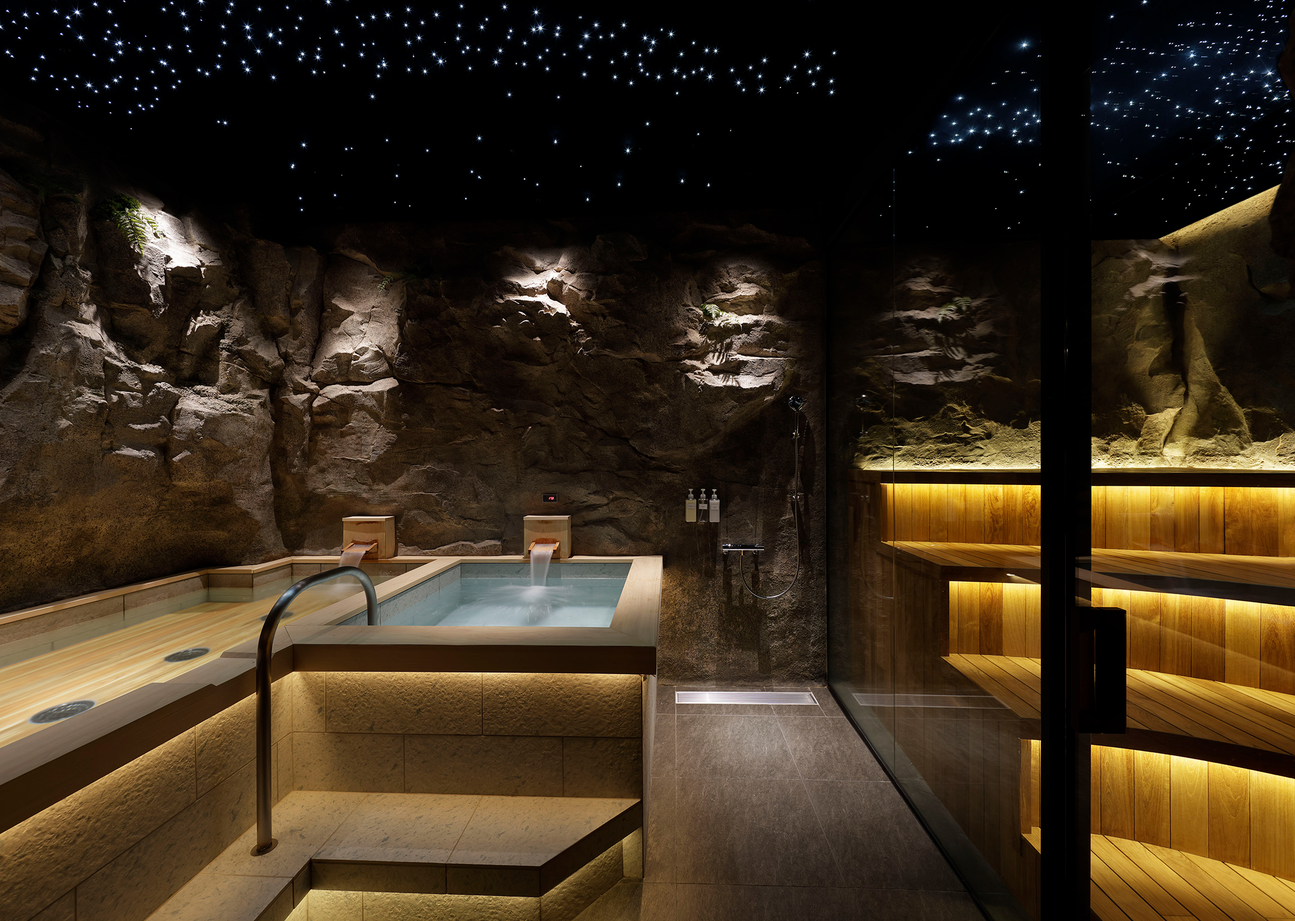
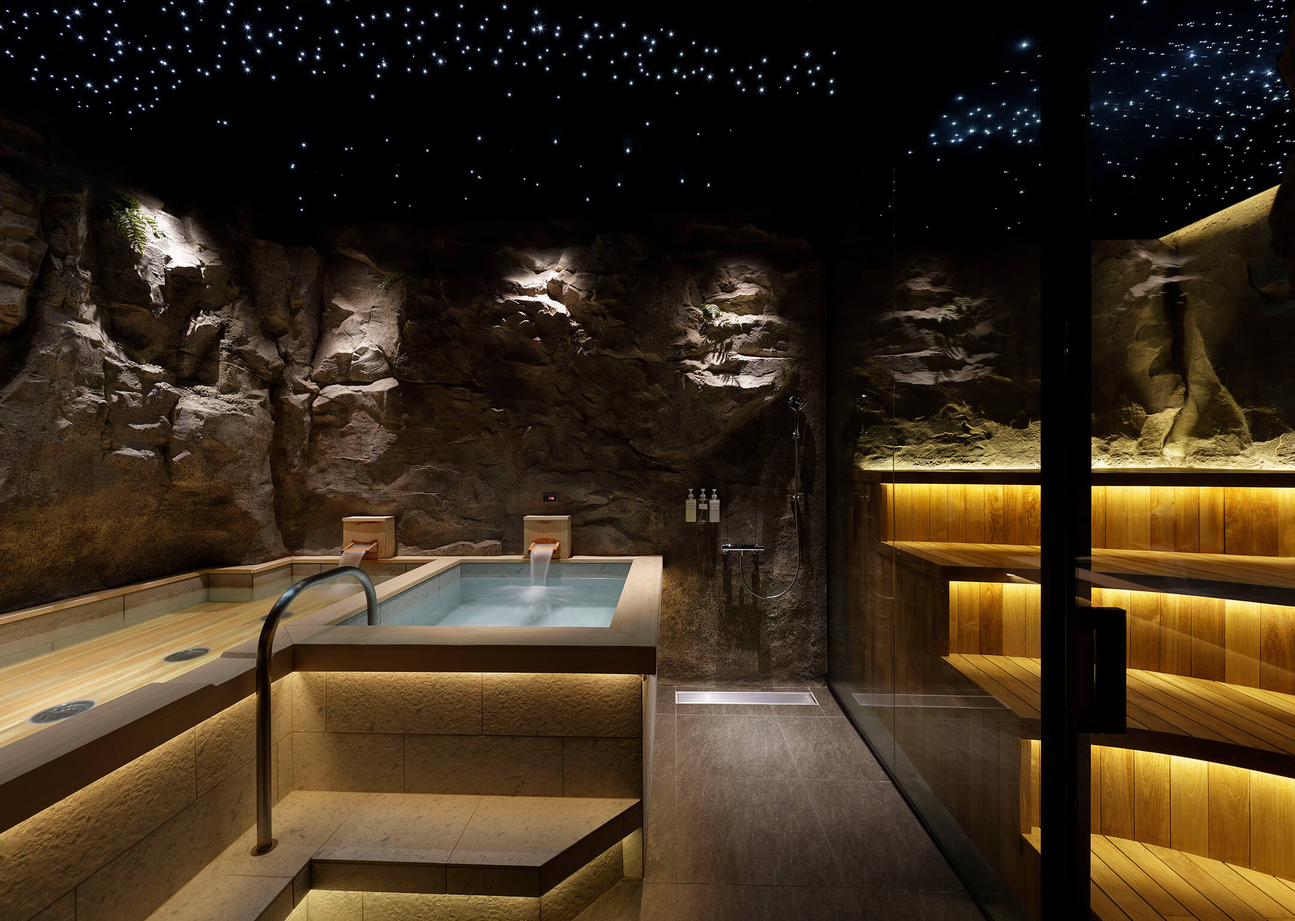
sticky title

Changed region(s): [[0.0931, 0.2188, 0.1241, 0.2812], [0.5583, 0.3438, 0.5894, 0.375]]

diff --git a/js/main.js b/js/main.js
@@ -1,32 +1,43 @@
-document.addEventListener('DOMContentLoaded', function() {
-    // Smooth scrolling for internal links
-    document.querySelectorAll('a[href^="#"]').forEach(anchor => {
-        anchor.addEventListener('click', function (e) {
-            e.preventDefault();
-            const target = document.querySelector(this.getAttribute('href'));
-            if (target) {
-                window.scrollTo({
-                    top: target.offsetTop - 80,
-                    behavior: 'smooth'
-                });
-            }
+document.addEventListener("DOMContentLoaded", function () {
+  // Smooth scrolling for internal links
+  document.querySelectorAll('a[href^="#"]').forEach((anchor) => {
+    anchor.addEventListener("click", function (e) {
+      e.preventDefault();
+      const target = document.querySelector(this.getAttribute("href"));
+      if (target) {
+        window.scrollTo({
+          top: target.offsetTop - 80,
+          behavior: "smooth",
         });
+      }
     });
+  });
 
-    // Add current date to footer
-    const currentYear = new Date().getFullYear();
-    const copyright = document.querySelector('footer p');
-    if (copyright) {
-        copyright.textContent = `© ${currentYear} ngnnah`;
-    }
+  // Add current date to footer
+  const currentYear = new Date().getFullYear();
+  const copyright = document.querySelector("footer p");
+  if (copyright) {
+    copyright.textContent = `© ${currentYear} ngnnah`;
+  }
 });
 
 // Detect scroll for header shadow
-window.addEventListener('scroll', function() {
-    const header = document.querySelector('header');
+window.addEventListener("scroll", function () {
+  const header = document.querySelector("header");
+  if (window.scrollY > 10) {
+    header.classList.add("scrolled");
+  } else {
+    header.classList.remove("scrolled");
+  }
+});
+
+document.addEventListener("DOMContentLoaded", function () {
+  window.addEventListener("scroll", function () {
+    const titleContainer = document.querySelector(".sticky-title-container");
     if (window.scrollY > 10) {
-        header.classList.add('scrolled');
+      titleContainer.classList.add("scrolled");
     } else {
-        header.classList.remove('scrolled');
+      titleContainer.classList.remove("scrolled");
     }
+  });
 });

diff --git a/_layouts/post.html b/_layouts/post.html
@@ -5,15 +5,25 @@ layout: default
 <main class="container">
   <article class="post">
     <header class="post-header">
-      <h1 class="post-title">{{ page.title }}</h1>
+      <div class="sticky-title-container">
+        <h1 class="post-title">{{ page.title }}</h1>
+      </div>
       {% if page.description %}
       <div class="post-description">{{ page.description }}</div>
       {% endif %}
       <div class="post-date">{{ page.date | date: "%B %-d, %Y" }}</div>
     </header>
+
     {% if page.image %}
     <div class="post-image">
-      <img src="{{ page.image }}" alt="{{ page.title }}" />
+      <img
+        src="{{ page.image }}"
+        srcset="{{ page.image | replace: '.jpg', '-small.jpg' }} 600w,
+                     {{ page.image }} 1200w"
+        sizes="(max-width: 600px) 100vw, 1200px"
+        loading="lazy"
+        alt="{{ page.title }}"
+      />
     </div>
     {% endif %}
 

diff --git a/css/style.css b/css/style.css
@@ -106,6 +106,31 @@ header h1 {
   font-size: 1.8rem;
 }
 
+.sticky-title-container {
+  position: sticky;
+  top: 0;
+  background-color: var(--background-color);
+  padding: var(--spacing-sm) 0;
+  z-index: 100;
+}
+
+.post-title {
+  margin-bottom: 0;
+}
+
+.sticky-title-container {
+  position: sticky;
+  top: 0;
+  background-color: var(--background-color);
+  padding: var(--spacing-sm) 0;
+  z-index: 100;
+  transition: box-shadow 0.3s ease;
+}
+
+.sticky-title-container.scrolled {
+  box-shadow: 0 2px 10px rgba(0, 0, 0, 0.05);
+}
+
 /* Enhanced Name Styling */
 header h1 a {
   font-weight: 700;
